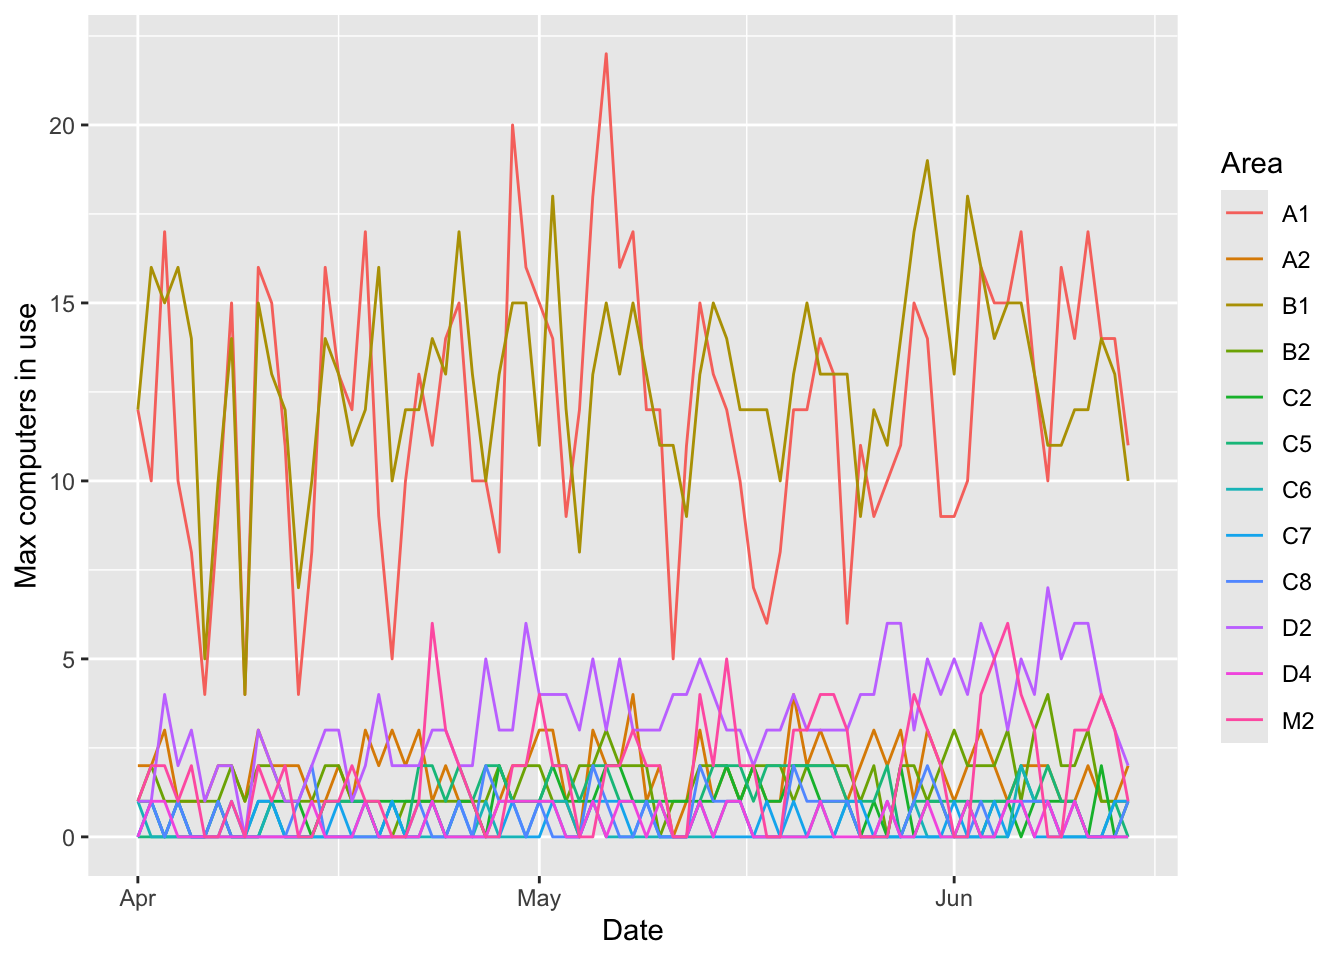
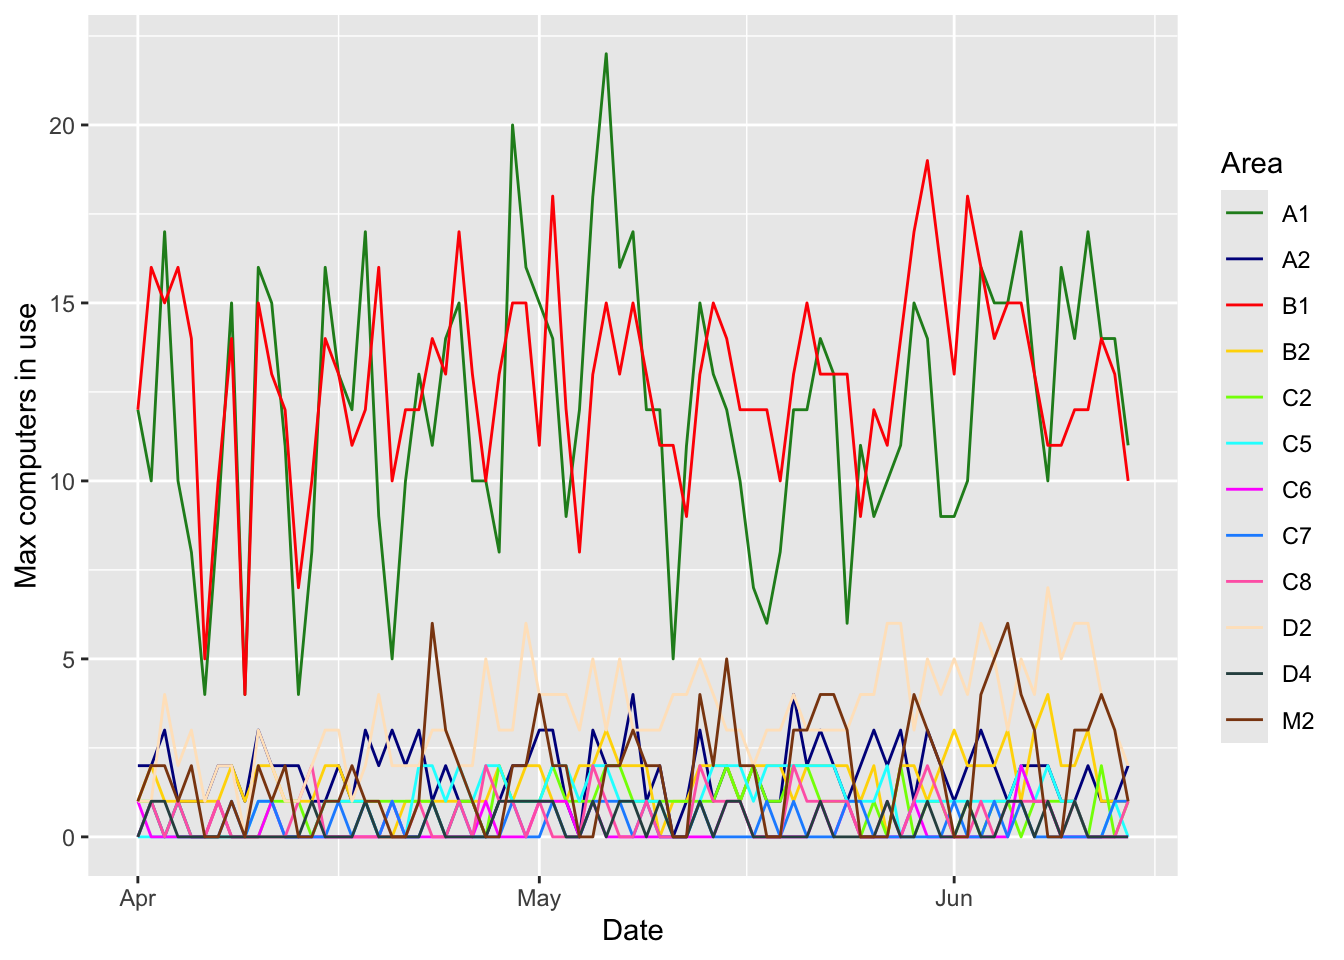
Attempt to improve color palette (still unsatisfactory)

diff --git a/stats.html b/stats.html
@@ -778,10 +778,28 @@ pre > code.sourceCode > span > a:first-child::before { text-decoration: underlin
 <div class="cell">
 <details class="code-fold">
 <summary>Code</summary>
-<div class="sourceCode cell-code" id="cb18"><pre class="sourceCode r code-with-copy"><code class="sourceCode r"><span id="cb18-1"><a href="#cb18-1" aria-hidden="true" tabindex="-1"></a>in_use_data <span class="sc">%&gt;%</span></span>
-<span id="cb18-2"><a href="#cb18-2" aria-hidden="true" tabindex="-1"></a>  <span class="fu">group_by</span>(<span class="at">Area=</span>area, <span class="at">Date=</span><span class="fu">date</span>(timestamp)) <span class="sc">%&gt;%</span></span>
-<span id="cb18-3"><a href="#cb18-3" aria-hidden="true" tabindex="-1"></a>  <span class="fu">summarize</span>(<span class="st">`</span><span class="at">Max computers in use</span><span class="st">`</span><span class="ot">=</span><span class="fu">max</span>(num_in_use)) <span class="sc">%&gt;%</span></span>
-<span id="cb18-4"><a href="#cb18-4" aria-hidden="true" tabindex="-1"></a>  <span class="fu">ggplot</span>(<span class="fu">aes</span>(<span class="at">x=</span>Date, <span class="at">y=</span><span class="st">`</span><span class="at">Max computers in use</span><span class="st">`</span>, <span class="at">color=</span>Area)) <span class="sc">+</span> <span class="fu">geom_line</span>()</span></code><button title="Copy to Clipboard" class="code-copy-button"><i class="bi"></i></button></pre></div>
+<div class="sourceCode cell-code" id="cb18"><pre class="sourceCode r code-with-copy"><code class="sourceCode r"><span id="cb18-1"><a href="#cb18-1" aria-hidden="true" tabindex="-1"></a><span class="co"># Palette generated from https://mokole.com/palette.html</span></span>
+<span id="cb18-2"><a href="#cb18-2" aria-hidden="true" tabindex="-1"></a>palette <span class="ot">&lt;-</span> <span class="fu">c</span>(</span>
+<span id="cb18-3"><a href="#cb18-3" aria-hidden="true" tabindex="-1"></a>  <span class="st">"#228b22"</span>, <span class="co"># forestgreen</span></span>
+<span id="cb18-4"><a href="#cb18-4" aria-hidden="true" tabindex="-1"></a>  <span class="st">"#00008b"</span>, <span class="co"># darkblue</span></span>
+<span id="cb18-5"><a href="#cb18-5" aria-hidden="true" tabindex="-1"></a>  <span class="st">"#ff0000"</span>, <span class="co"># red</span></span>
+<span id="cb18-6"><a href="#cb18-6" aria-hidden="true" tabindex="-1"></a>  <span class="st">"#ffd700"</span>, <span class="co"># gold</span></span>
+<span id="cb18-7"><a href="#cb18-7" aria-hidden="true" tabindex="-1"></a>  <span class="st">"#7fff00"</span>, <span class="co"># chartreuse</span></span>
+<span id="cb18-8"><a href="#cb18-8" aria-hidden="true" tabindex="-1"></a>  <span class="st">"#00ffff"</span>, <span class="co"># aqua</span></span>
+<span id="cb18-9"><a href="#cb18-9" aria-hidden="true" tabindex="-1"></a>  <span class="st">"#ff00ff"</span>, <span class="co"># fuchsia</span></span>
+<span id="cb18-10"><a href="#cb18-10" aria-hidden="true" tabindex="-1"></a>  <span class="st">"#1e90ff"</span>, <span class="co"># dodgerblue</span></span>
+<span id="cb18-11"><a href="#cb18-11" aria-hidden="true" tabindex="-1"></a>  <span class="st">"#ff69b4"</span>, <span class="co"># hotpink</span></span>
+<span id="cb18-12"><a href="#cb18-12" aria-hidden="true" tabindex="-1"></a>  <span class="st">"#ffe4c4"</span>, <span class="co"># bisque</span></span>
+<span id="cb18-13"><a href="#cb18-13" aria-hidden="true" tabindex="-1"></a>  <span class="st">"#2f4f4f"</span>, <span class="co"># darkslategray</span></span>
+<span id="cb18-14"><a href="#cb18-14" aria-hidden="true" tabindex="-1"></a>  <span class="st">"#8b4513"</span>  <span class="co"># saddlebrown</span></span>
+<span id="cb18-15"><a href="#cb18-15" aria-hidden="true" tabindex="-1"></a>)</span>
+<span id="cb18-16"><a href="#cb18-16" aria-hidden="true" tabindex="-1"></a></span>
+<span id="cb18-17"><a href="#cb18-17" aria-hidden="true" tabindex="-1"></a>in_use_data <span class="sc">%&gt;%</span></span>
+<span id="cb18-18"><a href="#cb18-18" aria-hidden="true" tabindex="-1"></a>  <span class="fu">group_by</span>(<span class="at">Area=</span>area, <span class="at">Date=</span><span class="fu">date</span>(timestamp)) <span class="sc">%&gt;%</span></span>
+<span id="cb18-19"><a href="#cb18-19" aria-hidden="true" tabindex="-1"></a>  <span class="fu">summarize</span>(<span class="st">`</span><span class="at">Max computers in use</span><span class="st">`</span><span class="ot">=</span><span class="fu">max</span>(num_in_use)) <span class="sc">%&gt;%</span></span>
+<span id="cb18-20"><a href="#cb18-20" aria-hidden="true" tabindex="-1"></a>  <span class="fu">ggplot</span>(<span class="fu">aes</span>(<span class="at">x=</span>Date, <span class="at">y=</span><span class="st">`</span><span class="at">Max computers in use</span><span class="st">`</span>, <span class="at">color=</span>Area)) <span class="sc">+</span></span>
+<span id="cb18-21"><a href="#cb18-21" aria-hidden="true" tabindex="-1"></a>    <span class="fu">geom_line</span>() <span class="sc">+</span></span>
+<span id="cb18-22"><a href="#cb18-22" aria-hidden="true" tabindex="-1"></a>    <span class="fu">scale_color_manual</span>(<span class="at">values=</span>palette)</span></code><button title="Copy to Clipboard" class="code-copy-button"><i class="bi"></i></button></pre></div>
 </details>
 <div class="cell-output-display">
 <div>
